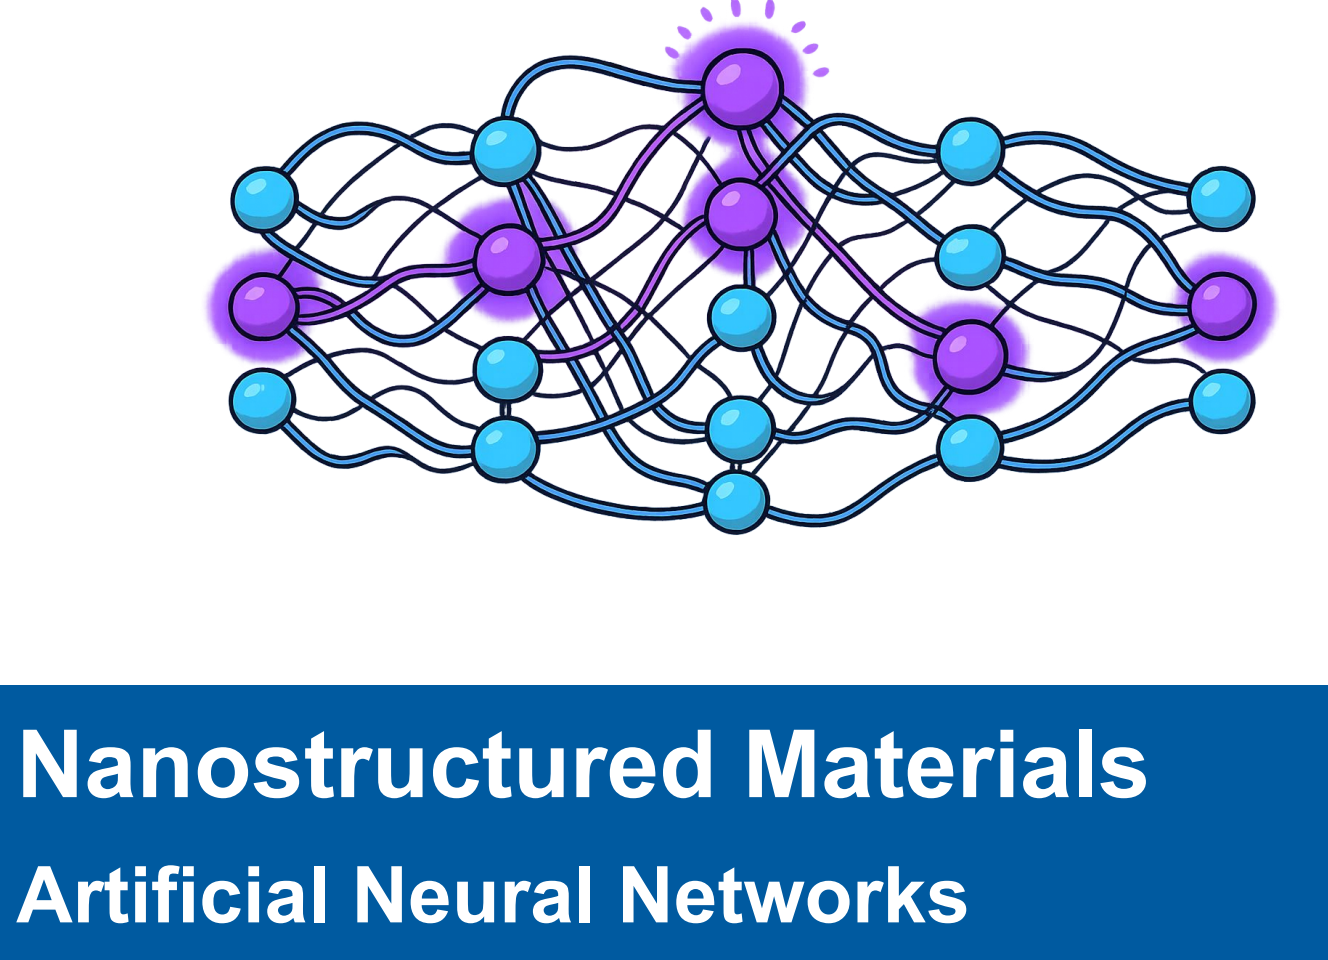
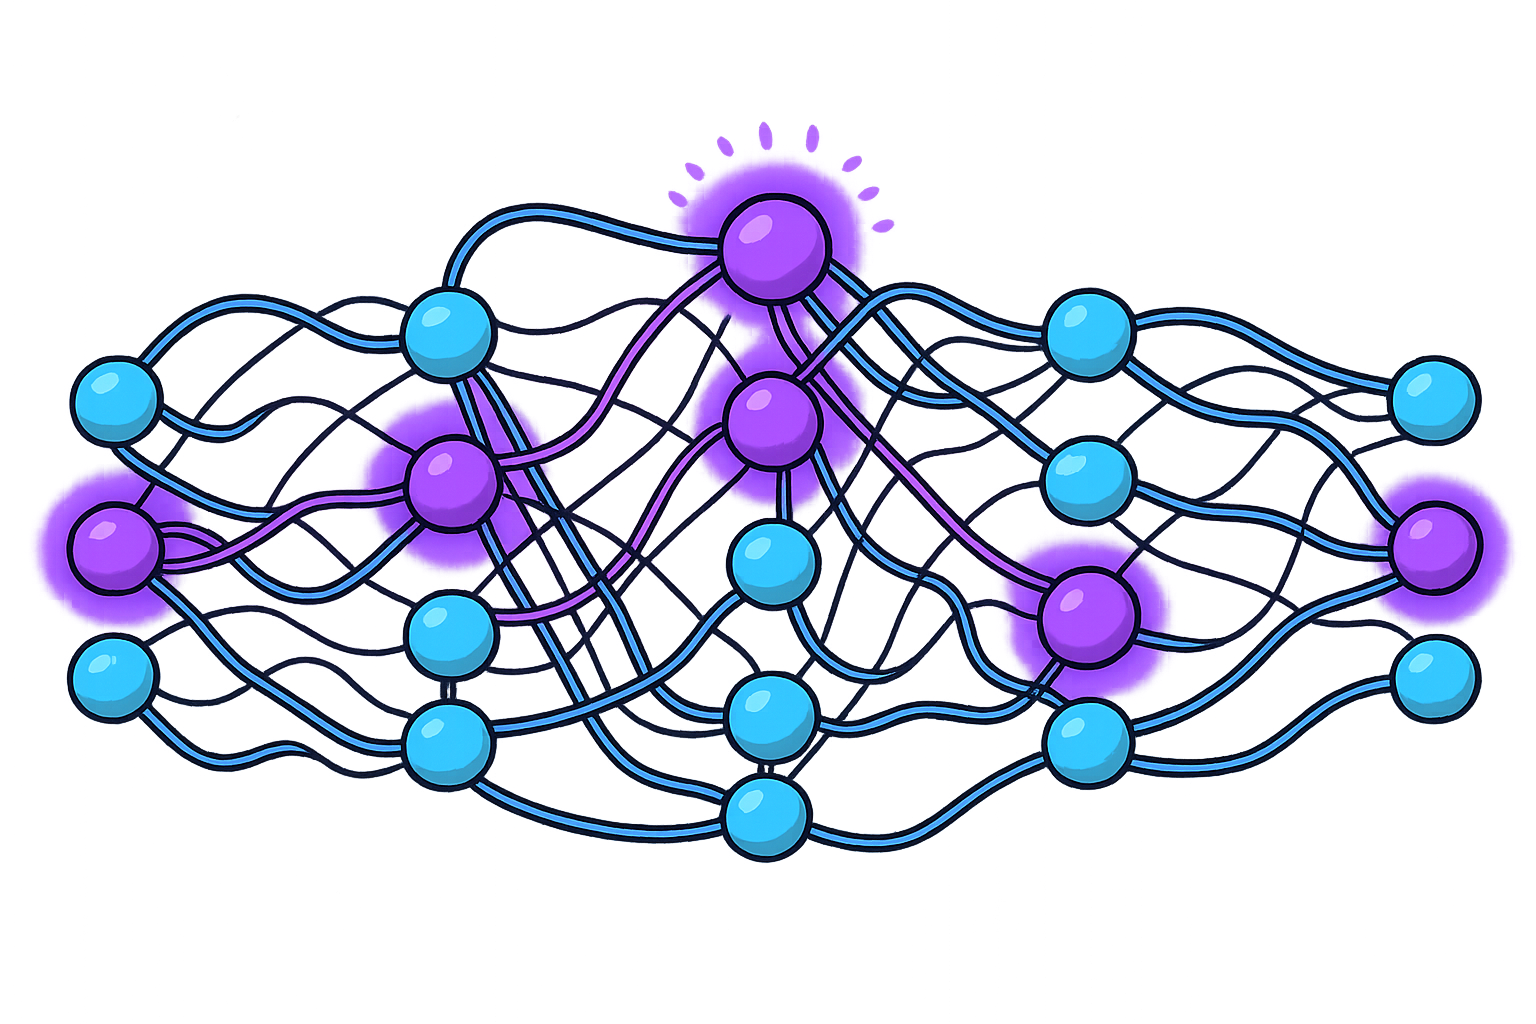
Customized style file for images and thumbnails. Updated image for

diff --git a/styles/custom.scss b/styles/custom.scss
@@ -8,11 +8,19 @@
 */
 #listing-current .card-img,
 #listing-alumni .card-img,
-#listing-summer_2025 img.card-img,
-.course-thumbnail {
+#listing-summer_2025 img.card-img {
   display: block !important;
   width: 120px !important;
   height: 120px !important;
+  border-radius: 50% !important;
+  object-fit: cover !important;
+  margin: 1rem auto !important; /* 1rem top/bottom margin, auto left/right for centering */
+}
+
+.course-thumbnail {
+  display: block !important;
+  width: 240px !important;
+  height: 240px !important;
   border-radius: 50% !important;
   object-fit: cover !important;
   margin: 1rem auto !important; /* 1rem top/bottom margin, auto left/right for centering */
